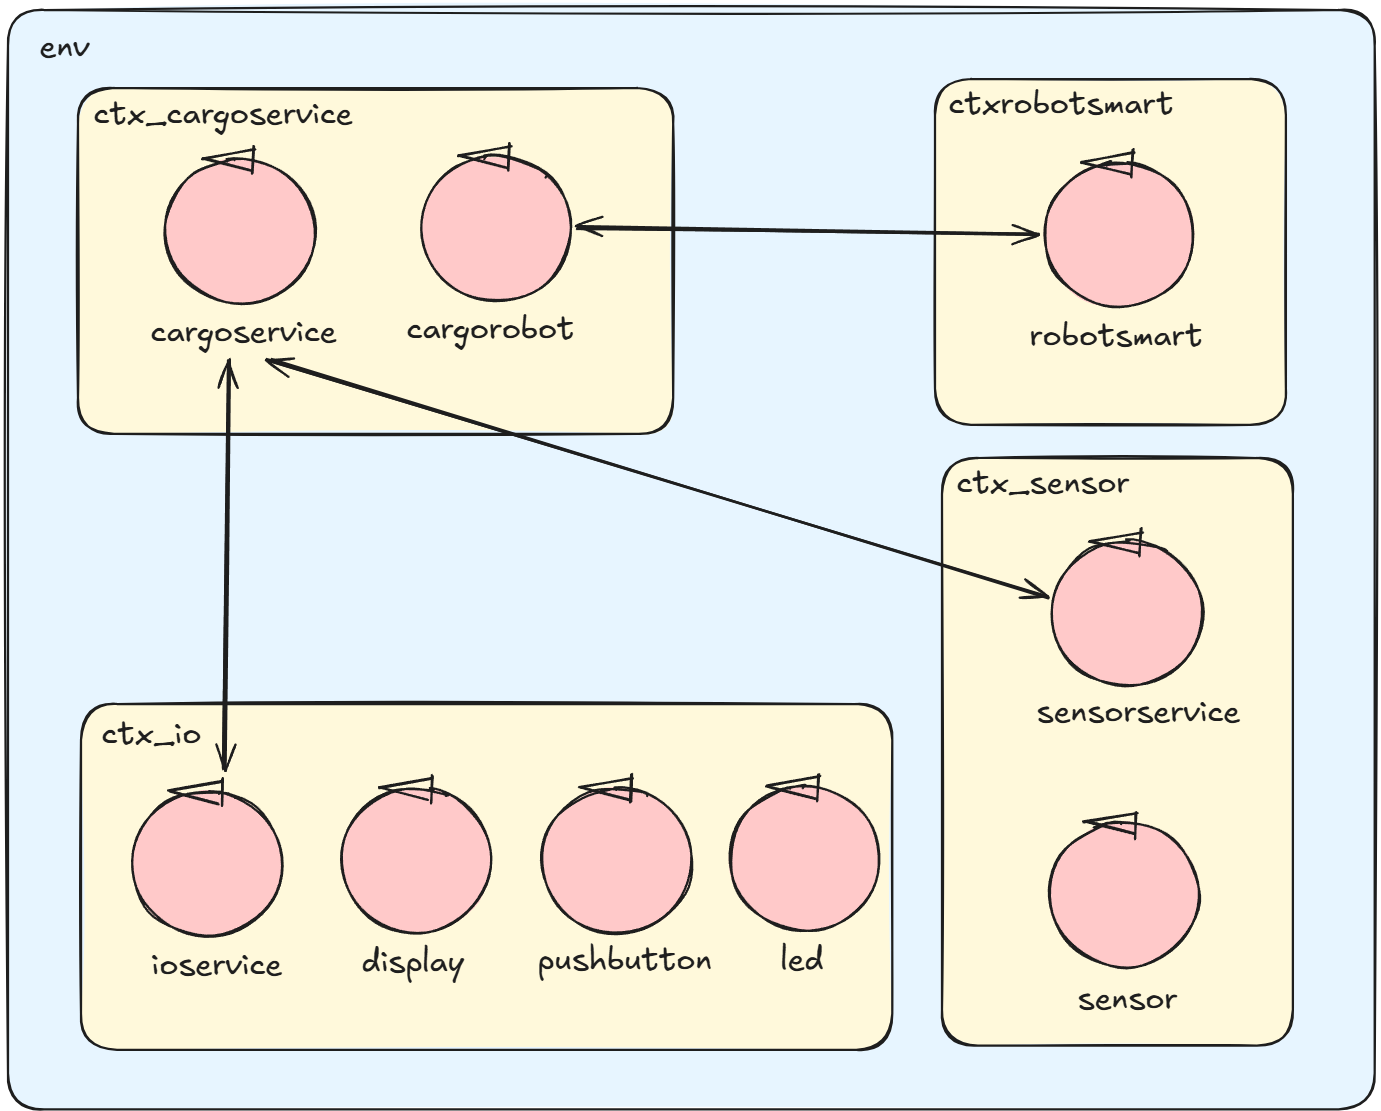
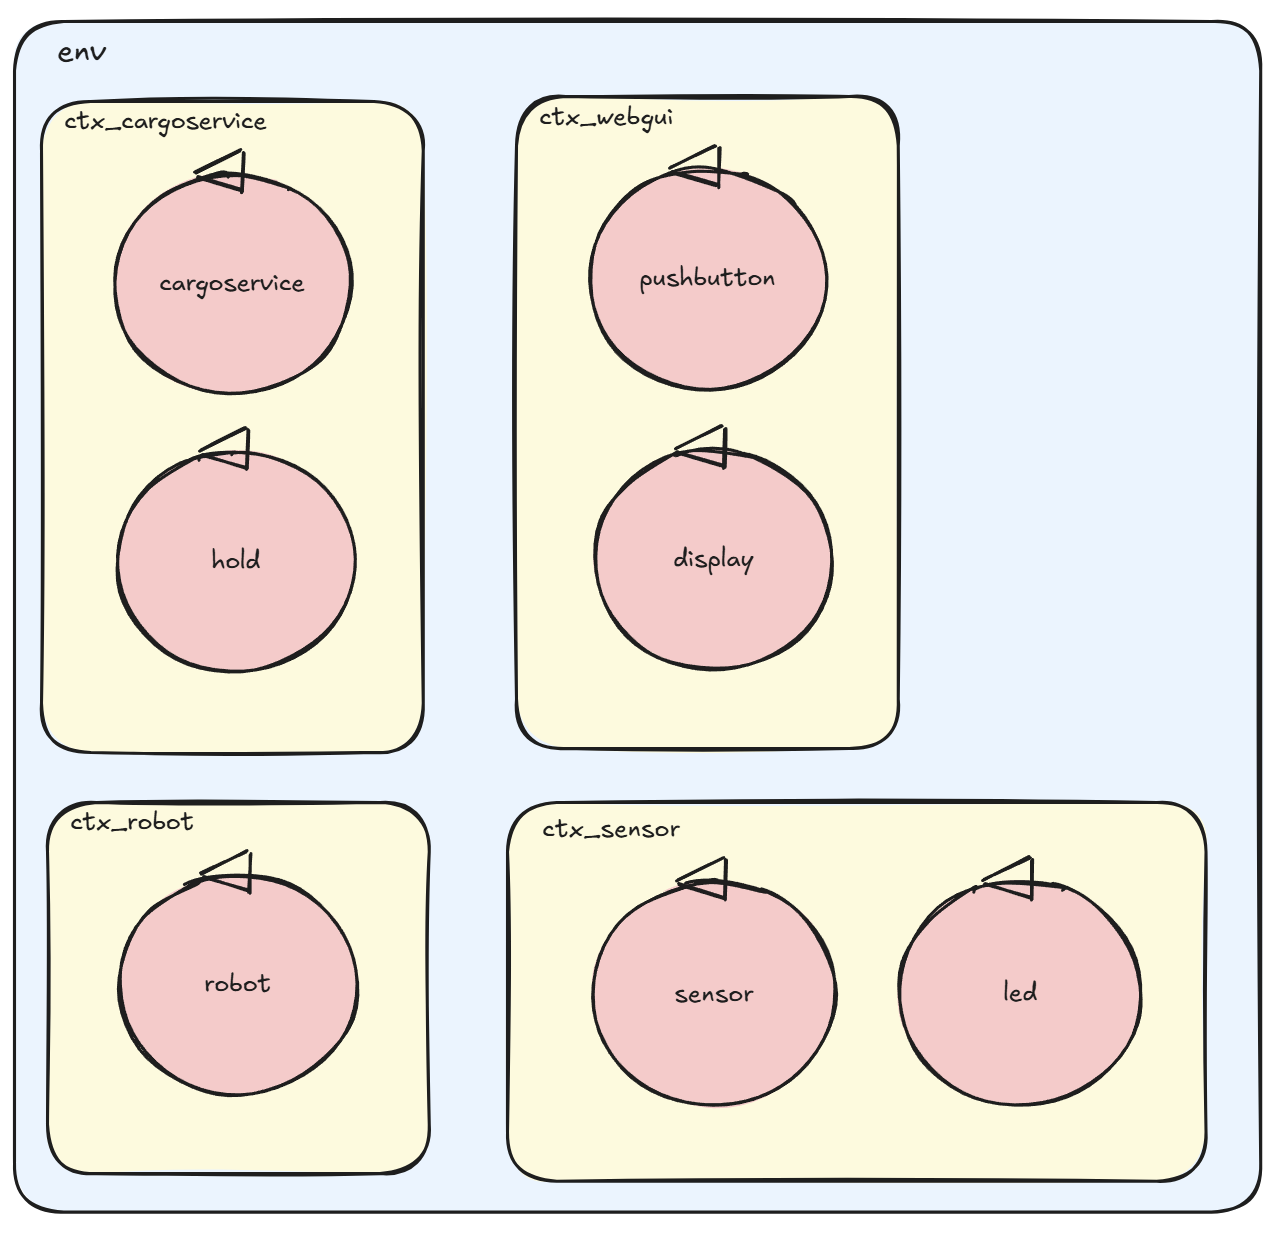
Aggiornata documentazione

diff --git a/sprint0/src/it/unibo/cargoservice/Cargoservice.kt b/sprint0/src/it/unibo/cargoservice/Cargoservice.kt
@@ -46,60 +46,9 @@ class Cargoservice ( name: String, scope: CoroutineScope, isconfined: Boolean=fa
 					//After Lenzi Aug2002
 					sysaction { //it:State
 					}	 	 
-					 transition(edgeName="t00",targetState="outOfService",cond=whenDispatch("sensorError"))
-					transition(edgeName="t01",targetState="handleLoadRequest",cond=whenRequest("load_request"))
+					 transition(edgeName="t00",targetState="engaged",cond=whenRequest("load_request"))
 				}	 
-				state("handleLoadRequest") { //this:State
-					action { //it:State
-						//genTimer( actor, state )
-					}
-					//After Lenzi Aug2002
-					sysaction { //it:State
-					}	 	 
-					 transition( edgeName="goto",targetState="checkIoport", cond=doswitch() )
-				}	 
-				state("checkIoport") { //this:State
-					action { //it:State
-						//genTimer( actor, state )
-					}
-					//After Lenzi Aug2002
-					sysaction { //it:State
-					}	 	 
-					 transition(edgeName="t02",targetState="startLoading",cond=whenReply("container_present"))
-					transition(edgeName="t03",targetState="waitContainer",cond=whenReply("container_absent"))
-				}	 
-				state("waitContainer") { //this:State
-					action { //it:State
-						//genTimer( actor, state )
-					}
-					//After Lenzi Aug2002
-					sysaction { //it:State
-					}	 	 
-					 transition(edgeName="t04",targetState="startLoading",cond=whenDispatch("containerIn"))
-				}	 
-				state("startLoading") { //this:State
-					action { //it:State
-						request("doplan", "doplan(PLAN)" ,"robotsmart" )  
-						//genTimer( actor, state )
-					}
-					//After Lenzi Aug2002
-					sysaction { //it:State
-					}	 	 
-					 transition(edgeName="t05",targetState="moveToSlot",cond=whenReply("doplandone"))
-					transition(edgeName="t06",targetState="handleMoveFailed",cond=whenReply("doplanfailed"))
-				}	 
-				state("moveToSlot") { //this:State
-					action { //it:State
-						request("doplan", "doplan(PLAN)" ,"robotsmart" )  
-						//genTimer( actor, state )
-					}
-					//After Lenzi Aug2002
-					sysaction { //it:State
-					}	 	 
-					 transition(edgeName="t07",targetState="disengaged",cond=whenReply("doplandone"))
-					transition(edgeName="t08",targetState="handleMoveFailed",cond=whenReply("doplanfailed"))
-				}	 
-				state("handleMoveFailed") { //this:State
+				state("engaged") { //this:State
 					action { //it:State
 						//genTimer( actor, state )
 					}
@@ -115,27 +64,6 @@ class Cargoservice ( name: String, scope: CoroutineScope, isconfined: Boolean=fa
 					//After Lenzi Aug2002
 					sysaction { //it:State
 					}	 	 
-					 transition(edgeName="t09",targetState="recoveryFromOOS",cond=whenDispatch("sensorReady"))
-					transition(edgeName="t010",targetState="rejectOOS",cond=whenRequest("load_request"))
-				}	 
-				state("rejectOOS") { //this:State
-					action { //it:State
-						answer("load_request", "retrylater", "retrylater(out_of_service)"   )  
-						//genTimer( actor, state )
-					}
-					//After Lenzi Aug2002
-					sysaction { //it:State
-					}	 	 
-					 transition( edgeName="goto",targetState="outOfService", cond=doswitch() )
-				}	 
-				state("recoveryFromOOS") { //this:State
-					action { //it:State
-						//genTimer( actor, state )
-					}
-					//After Lenzi Aug2002
-					sysaction { //it:State
-					}	 	 
-					 transition( edgeName="goto",targetState="disengaged", cond=doswitch() )
 				}	 
 			}
 		}

diff --git a/docs/sprint0_v2.html b/docs/sprint0_v2.html
@@ -159,7 +159,7 @@ Per rappresentare lo spazio rettangolare dell'hold e l'esatto posizionamento deg
     <bc>hold</bc> in quadrati di lato 2r. Questo si riflette nel modello come una matrice di interi<br>
       <em>int[ ][ ] hold</em>, di dimensione width(B/2r) * height(H/2r).<br>
 
-<br>    <img src="img/hold.png" width="50%"><br><br>
+<br>    <img src="img/hold.png" width="30%"><br><br>
 
 Da requisiti, ogni <bc>slot</bc> può essere riservato o libero, perciò abbiamo pensato di modellare 
     <bc>slot</bc> come una classe <em>Slot</em>, dotata di un parametro boolean <em>reserved</em> 
@@ -267,7 +267,7 @@ La <bc>IOPort</bc> è fisicamente il punto di ingresso/uscita dei container nell
 <ul>
     <li><bc>pushbutton</bc>: pulsante fisico. Premuto dal cliente, invia una <em>richiesta di carico</em> al cargoservice. (attivo)
     <li><bc>display</bc>: mostra risposta e stato della hold. (passivo)
-    <li><bc>sensor</bc>: rileva la distanza D nella <bc>IOPort</bc>, e quando questa è minore di =DFREE/2 per almeno 3 secondi è in grado di dedurre la presenza di un ostacolo. (attivo)
+    <li><bc>sensor</bc>: rileva la distanza D nella <bc>IOPort</bc>, e quando questa è minore di DFREE/2 per almeno 3 secondi è in grado di dedurre la presenza di un ostacolo. (attivo)
 </ul>
 <div class="remark">
 <b>Natura software:</b>
@@ -351,7 +351,6 @@ public class Led(){
 <p>
     Questo componente non è presente nei requisiti testuali, ma è stato definito in un colloquio con il committente. 
     Come descritto dal committente, la <bc>WebGUI</bc> è un'interfaccia web che contiene <bc>display</bc> e <bc>pushbutton</bc>.<br><br>
-    ALTRO??? 
 </p>
 
 <h2>Il core business</h2>
@@ -373,6 +372,7 @@ La logica di business principale è composta da:
 Definiamo una prima architettura logica del sistema, 
 composta dai quattro attori principali <bc>cargoservice</bc>, <bc>sensor</bc>, <bc>webGUI</bc>, <bc>robotsmart</bc>, ognuno con il proprio contesto.
 </p>
+<img src="img/arch0.png" width="50%">
 
 <h2>Componenti da Sviluppare</h2>
 <h3>Da sviluppare</h3>
@@ -508,31 +508,7 @@ public void testT05() throws Exception {
 }
 </code></pre>
 
-<h4>T06: Recovery da Out-of-Service</h4>
-<div class="remark">
-<b>Precondizione:</b> sistema in OUT_OF_SERVICE (T05 eseguito).<br/>
-<b>Atteso:</b> dopo <tt>sensorReady</tt> da sensor il sistema torna in DISENGAGED
-e accetta nuove richieste.
-</div>
-<pre><code>@Test
-public void testT06() throws Exception {
-    //porto il sistema in OUT_OF_SERVICE
-    conn.forward(CommUtils.buildDispatch("tester", "sensorError", "sensorError(x)", "cargoservice").toString());
-    CommUtils.delay(300);
-
-    //simulo fine guasto
-    conn.forward(CommUtils.buildDispatch("tester", "sensorReady", "sensorReady(x)", "cargoservice").toString());
-    CommUtils.delay(300);
-
-    //invio richiesta di carico
-    String req = CommUtils.buildRequest("tester", "load_request", "load_request(x)", "cargoservice").toString();
-    String resp = conn.request(req);
-
-    assertTrue("T06: recovery - sistema torna in DISENGAGED", resp.contains("load_accepted"));
-}
-</code></pre>
-
-<h4>T07: Container già presente all'IOPort - carico immediato</h4>
+<h4>T06: Container già presente all'IOPort - carico immediato</h4>
 <div class="remark">
 <b>Precondizione:</b> container depositato <em>prima</em> della load_request
 (il dispatch <tt>containerIn</tt> è fire and forget ed è già andato perso).<br/>
@@ -541,14 +517,14 @@ public void testT06() throws Exception {
 e il ciclo di movimentazione parte subito, senza attendere i 30s.
 </div>
 <pre><code>@Test
-public void testT07_ContainerAlreadyAtIoport() throws Exception {
+public void testT06_ContainerAlreadyAtIoport() throws Exception {
     //setto lo stub del sensoreservice in stato "container presente"
     sensorStub.setContainerStatus(true);
 
     //invio richiesta di carico
     String req = CommUtils.buildRequest("tester", "load_request", "load_request(x)", "cargoservice").toString();
     String resp = conn.request(req);
-    assertTrue("T07 setup: richiesta accettata", resp.contains("load_accepted"));
+    assertTrue("T06 setup: richiesta accettata", resp.contains("load_accepted"));
 
     CommUtils.delay(8000); //attendo finisca l'operazione
 
@@ -557,7 +533,7 @@ public void testT07_ContainerAlreadyAtIoport() throws Exception {
     String req2 = CommUtils.buildRequest("tester", "load_request", "load_request(x)", "cargoservice").toString();
     String resp2 = conn.request(req2);
 
-    assertTrue("T07: carico avviato con container già presente", resp2.contains("load_accepted"));
+    assertTrue("T06: carico avviato con container già presente", resp2.contains("load_accepted"));
 }
 </code></pre>
 
@@ -585,8 +561,7 @@ Lo <bc>Sprint 1</bc> ha come obiettivo la realizzazione del core business, per o
     <li><bc>T03</bc>: Timeout / DISENGAGED</li>
     <li><bc>T04</bc>: Hold piena</li>
     <li><bc>T05</bc>: Sensor guasto / OUT_OF_SERVICE</li>
-    <li><bc>T06</bc>: Recovery da OUT_OF_SERVICE</li>
-    <li><bc>T07</bc>: Container già presente all'IOPort</li>
+    <li><bc>T06</bc>: Container già presente all'IOPort</li>
 </ul>
 
 <h3>Componenti prodotti in Sprint 1</h3>

diff --git a/sprint0/Arch_sprint0.py b/sprint0/Arch_sprint0.py
@@ -27,7 +27,6 @@ with Diagram('sprint0Arch', show=False, outformat='png', graph_attr=graphattr) a
 ### see https://renenyffenegger.ch/notes/tools/Graphviz/attributes/label/HTML-like/index
      with Cluster('ctx_cargoservice', graph_attr=nodeattr):
           cargoservice=Custom('cargoservice','./qakicons/symActorWithobjSmall.png')
-     with Cluster('ctxrobotsmart', graph_attr=nodeattr):
-          robotsmart=Custom('robotsmart(ext)','./qakicons/externalQActor.png')
-     cargoservice >> Edge(color='magenta', style='solid', decorate='true', label='<doplan<font color="darkgreen"> doplandone doplanfailed</font> &nbsp; >',  fontcolor='magenta') >> robotsmart
+     with Cluster('ctx_robot', graph_attr=nodeattr):
+          robot=Custom('robot(ext)','./qakicons/externalQActor.png')
 diag